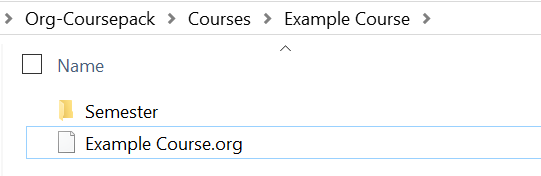
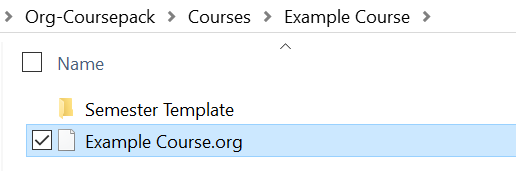
Update

diff --git a/searchindex.js b/searchindex.js
@@ -1,1 +1,1 @@
-Search.setIndex({docnames:["Lectures/01 Introduction","Lectures/02 Org Mode Basics","Lectures/03 Topic and Course Org Files","Lectures/04 Creating Content for Slides and Handouts","Lectures/05 Exporting Slides and Handouts","Lectures/06 Semester Org Files 1 4 Introduction","Lectures/07 Semester Org Files 2 4 Sections and Syllabus","Lectures/08 Semester Org Files 3 4 Lectures","Lectures/09 Semester Org Files 4 4 Exams and Assignments","index"],envversion:53,filenames:["Lectures\\01 Introduction.rst","Lectures\\02 Org Mode Basics.rst","Lectures\\03 Topic and Course Org Files.rst","Lectures\\04 Creating Content for Slides and Handouts.rst","Lectures\\05 Exporting Slides and Handouts.rst","Lectures\\06 Semester Org Files 1 4 Introduction.rst","Lectures\\07 Semester Org Files 2 4 Sections and Syllabus.rst","Lectures\\08 Semester Org Files 3 4 Lectures.rst","Lectures\\09 Semester Org Files 4 4 Exams and Assignments.rst","index.rst"],objects:{},objnames:{},objtypes:{},terms:{"00pm":6,"01_syllabu":6,"10pt":6,"1in":6,"20pt":3,"30a":6,"30pm":5,"43e7":7,"6cm":0,"79d5e887":7,"8e8a":7,"\u315a\u3157":[],"break":3,"case":[0,1,2,3],"class":9,"default":[3,4,6,7,8],"export":[1,3,6,7,8,9],"final":6,"function":[0,1,3,4,6,7,8],"import":[2,5,6,8],"long":[4,7],"new":8,"return":4,"try":0,"while":[0,1,3,4,6],Adding:[],For:[0,1,3,4,5,6,7,8],Its:[2,8],One:[0,1,3,6],Such:[1,3],That:[0,5,6],The:[0,1,2,3,4,5,6,8,9],Then:[0,1,7],There:6,These:[0,3,4,6,7],Using:[4,9],With:[3,4,7],_assign:7,_exam:7,_final:7,abil:7,abl:0,about:[0,2,4,5,6,8],abov:[0,2,7],absolut:5,academ:0,access:0,accommod:5,accomod:4,accompani:3,accordingli:7,achiev:[1,3],across:[0,1,2,5,6,7,8],act:[5,6],action:[0,4,7],activ:[3,8],actual:[0,2],adadem:0,adapt:4,add:[0,3,4,8],added:[0,4],adding:[0,4],addit:[0,4,6,7,8],adjust:0,advantag:1,after:[0,3,4],again:[],agenda:[0,7],ajax:5,alist:4,all:[0,1,3,5,6,7],allow:[0,1,3,4,6,8],allowfullscreen:3,alreadi:3,also:[0,3,5,6,8],alt:[0,8],ani:[0,1,3,4,7,8],annot:0,annouc:7,announc:[0,5,6,7],anoth:[0,2,6,8,9],appear:[0,3],append:4,appli:[0,3],approach:0,appropri:0,area:[1,3],argument:4,around:[0,6],arrow:0,articl:[0,4,6],ask:0,asset:[0,5],assign:[0,1,2,5,6,9],assignment_1:0,associ:1,assum:7,attr_beam:3,attr_format:3,attr_html:[0,3],attr_latex:[0,3],attr_rev:[0,3],attribut:0,author:[2,5],autom:0,automat:[0,3,4,6,7,8],auxiliari:0,avail:[0,3],avoid:[3,6],b83fa83ee56:7,babel:8,back:4,backend:[0,3,4],base:[0,3,4],basi:7,basic:[0,4,7,9],beamer:[0,3,4,7],becaus:[],becom:[],been:0,befor:[0,3,7],begin:[0,3,6],begin_cent:6,begin_export:3,begin_mdfram:3,begin_not:3,begin_src:7,beginn:0,being:[0,3,4,7],belon:8,belong:[0,7],below:[0,2,3,4,5,6,7,8],benefit:[0,2],between:[3,4],biggest:0,bind:[],blank:6,bldg:6,block:[3,6],bodi:[6,7],boilerpl:[],bold:3,booklet:4,both:[0,4,9],bottom:6,broken:[],browser:3,build:1,built:[0,4],button:[],calendar:0,call:0,can:[0,1,2,3,4,5,6,7,8],cannot:3,carrot:8,categor:5,categori:[2,5],cdn:5,cdnj:5,central:[],certain:4,chang:[0,1,4,5,6,8],charact:7,checkmark:8,choos:[0,3,4],classlist:5,classroom:[0,5,6],clearpag:4,click:[0,4,7],clickabl:[0,7,9],cloudflar:5,code:[0,4,8,9],collaps:[0,5],color:6,column:[6,7],columnview:[0,6],com:[3,5],combin:3,come:4,command:[0,4,7],common:[0,3,5,6,8],compil:0,complet:[0,3],compon:[0,5],concat:4,cond:3,conduct:8,confirm:[0,8],consider:2,consist:[0,1,2],construct:[],contain:[0,2,4,5,6,7,8],containt:2,content:[5,6,9],control:3,contruct:5,conveni:[4,8],convert:[3,4],copi:1,correct:[4,8],correctli:[],correspond:[0,2,3,6,7,8],coupl:5,courier:6,cours:[1,3,4,5,7,8,9],course_info:0,course_link:6,course_num:[0,5,6,8],coursepack:[1,2,3,4,5,7,8],coursepacket:2,cover:[0,2,5],creat:[1,2,4,5,6,7,8,9],creation:0,ctrl:0,current:[0,1,4,7],curser:0,cursor:[0,1,4,6],custom:[0,3,4,6,7,8],custom_id:[1,2,6,7,8],cut:4,cutoff:6,dai:6,data:[1,2],date:[0,1,6,8],date_class_01:7,date_class_02:7,date_class_xx:7,date_exam_1:8,date_final_exam_01:6,deadlin:[],deck:0,dedic:5,defin:[0,1,4,6,7],definecolor:6,definit:[1,5],defun:[3,4],denot:1,depend:[0,4],depth:4,deriv:[3,4],describ:[0,3,4,6,7],descript:[0,2,5,6],design:[0,7,8],desir:0,detail:[0,8],determin:1,develop:0,dfrac:1,differ:[0,1,2,6,8],digest:0,direct:3,directli:[0,3],directori:[4,7,9],discuss:7,dispatch:4,displai:3,div:3,divid:0,document:[0,1,4,5],documentclass:4,doe:[0,4],done:[],down:[0,8],draw:7,drawer:[0,6],due:[0,1,7],due_:7,due_assignment_1:[1,7],due_assignment_2:7,duplic:8,dure:6,dynam:6,each:[0,1,2,4,5,6,7,8],earlier:[0,7],easi:0,easier:0,easili:[1,3,7],edit:7,effect:0,effici:0,eggplant:8,either:[0,3,4],element:[4,6,8],elisp:[0,8],elmnt:4,emac:[0,3,4,7,8],email:[2,5,6],emb:3,embed:0,empti:8,enabl:[0,3,4],end:[0,1,2,3,4,5,6,7,8],end_cent:6,end_export:3,end_mdfram:3,end_not:3,engag:0,enjoi:0,ensur:[1,4],enter:[0,7],entri:4,escap:4,especi:1,essenti:7,estim:2,etc:[1,5,6],eun:[0,1,2,3,4,5,6,7,8],eval:[3,4],evalu:8,even:0,event:[0,7],everi:4,exam:[0,1,2,4,5,6,7,9],exam_:7,exampl:[1,2,3,4,5,6,7,8],exclude_tag:5,execut:7,exercis:2,exist:7,expand:[0,2],experi:0,explain:0,explan:[],exploit:1,export_:4,export_author:8,export_d:8,export_file_nam:[0,6,7],export_file_name_manu:7,export_latex_head:[4,6,7],export_titl:[4,6,7,8],export_to:[4,6,7],extend:[],extens:[0,4],extra:3,extract:6,fact:2,fall:[2,5,6,7,8],familiar:[0,3],featur:[0,1,4,9],few:0,file:[3,4,9],fill:0,filler:0,filter:[3,4],find:0,finish:[],first:[0,3,4,7,8],fit:[0,6],fix:[],flexibl:[0,1,4],focu:[0,3],focus:4,folder:[0,2],follow:[0,1,3,4,5,7,8],fontenc:6,forc:0,fore:1,form:[1,2,4,6,7],format:[0,3,4,6,7,8],former:4,found:[3,4],frag:[0,3],fragment:0,frame:3,framebreak:3,framemethod:6,frametitl:3,freeli:0,frequent:[0,1,3],from:[0,2,5,6,7,9],front:4,fset:4,full:4,furthermor:8,futur:[0,1],gener:[0,2,3,4,5,6,7,8],geometri:6,get:[0,3,4,6,7],given:[0,2,5,6],global:5,gnu:0,grab:[],grade:[0,2,5,6],grammar:[3,6],granular:3,group:0,guid:9,guidelin:[0,1,2],hack:3,handout:[5,9],handoutonli:[0,4,7],happen:3,has:[0,2,4,5,6,7,8],have:[0,1,2,3,4,6,7,8],head:[2,6,9],header:[3,4,6,7,8],headlin:[0,3,4],heavili:6,height:3,help:0,helvet:6,henc:[0,2,3,4,7,8],here:[2,3,4,8],hidden:[0,4],hide:[0,3,8],hidestar:[2,5],highest:2,highlight:[4,5,7],hit:0,hold:0,holidai:[0,7],hook:4,hour:[0,6],how:[1,3,4,5],howev:[0,4],href:[],html:[0,4,7,9],http:[3,5],iffals:[0,4],ifram:3,ignor:[0,3,6,7],ignoreheadlin:3,imag:[0,3,4],img:3,importantli:4,improv:0,inact:8,includ:[2,3,4,6,7,8,9],inclus:0,inconsist:0,indent:5,index:9,individu:9,info:[3,4],inform:[1,2,3,4,5,7,8],inherit:[6,7,8],init:[3,4],initi:4,inlin:[3,8],insert:[0,7],insid:0,inspect:7,instal:4,instanc:2,instead:[3,5,6,7],institut:[0,5,6],instruct:[0,3,4,5,8],instructor:[1,2,3,4,5,6,7,8],instrutor:7,interact:4,interfac:4,interpret:2,introduc:[0,3,4],introduct:9,invalid:7,irrelev:3,item:[0,3,4,5,6,8],its:[0,1,3,4,6,7],itself:[],jae:[0,1,2,3,4,5,6,7,8],joon:[0,1,2,3,4,5,6,7,8],jose:0,just:[],kbd:4,keep:[],kei:[0,8],keybind:9,keyboard:4,keyword:5,know:0,knowledg:0,koma:[4,6],lambda:4,lang:4,languag:[0,3,4],larg:6,last:[4,7],later:4,latex:[0,6,7,8,9],latter:[4,7],learn:[0,2,6,7],lectur:[1,2,3,4,5,8,9],left:6,let:[0,3,4],letter:4,letterpap:6,level:[0,1,2,9],leverag:0,lib:5,like:[0,1,3],limit:0,line:[0,1,2,4],linear:5,link:[0,2,7,8,9],lisp:[0,3,4,7],list:[0,4,6,7,8],load:[3,4],local:[5,9],localsetup:0,locat:[0,1,2,5,6],logo:6,look:[0,3],macro:[0,3,4,7,8,9],macro_nam:1,macros_section_info:[0,6],made:[0,7],mai:[0,1,3,4,5,6,7,8],mail:6,main:[],mainli:5,maintain:4,major:0,make:[0,1,2,3],manag:0,mani:[0,8],manual:[0,1,3,4,5,7,8],map:4,mark:[0,8],markdown:[0,5],market:[1,2],markeup:3,markup:[0,3,4],master:[0,5],match:[],materi:[0,1,2,5,6,7],math:0,mathjax:0,mathpazo:6,matter:4,mdframe:[3,6],mean:[0,1,6],meet:[6,7],member:4,menu:0,meta:2,metadata:[2,5],method:0,microtyp:6,mid:8,might:[],minim:[0,7,8],mint:[4,7],minut:8,mix:[],mode:[0,3,5,6,7,8,9],modifi:[],modul:9,modular:[1,8],more:[0,1,3,5,7,8],most:[0,2,6,7],move:0,movement:[],much:[7,8],multi:3,multicol:[3,4],multipl:[0,1,2,4,5,6],name:[0,1,2,4,5,6,7],namkoong:[0,1,2,3,4,5,6,7,8],narrow:4,navig:0,necessari:[3,5],need:[0,1,3,7],newpag:[4,6,8],next:4,nil:[0,5,6,8],noexport:[5,6,7],non:[0,7],none:7,nonstopmod:4,note:[0,2,4,5,6,7,8],notic:[],now:[2,6],num:[4,6],number:[0,1,4,5,6,7,8],object:[0,2,6,7],obtain:[3,8],obvious:[],occupi:0,occur:0,occurr:0,offer:[0,4,5],offic:[0,6],office_hour:[5,6],often:0,okra:8,onc:6,one:[0,1,3,4,5,7,8],onehalfspac:6,ones:5,onli:[0,1,2,3,6,7,8],open:[0,4,7,8],oppos:[0,4],option:[0,1,2,3,4,6,7,8,9],order:[0,1,5,7,8],org:3,org_teach:[7,8],organ:[0,5],orgmod:3,origin:[4,8],other:[0,4,5,6,7],otherwis:8,our:[0,4],output:[0,3,4,7],output_view:[6,7],outputdir:4,outsid:0,over:[3,5],overal:7,overlai:[3,7],overridden:7,overview:[2,5,7,9],own:0,packag:[4,7],page:[6,9],pair:1,paragraph:4,parent:4,pars:4,part:[0,3,4],partial:2,particular:[1,7],pass:[0,6,8],past:[0,1],path:[5,7],pdf:[0,4,6,7],pdflatex:4,pepper:8,per:0,percentag:6,perform:7,perman:[0,2],pertain:8,phone:6,place:[0,1,4,6,7],placehold:6,plan:2,plist:4,png:3,point:[3,4,7,8],polici:[0,2,6],popular:0,portabl:0,portion:0,posit:4,possibl:[7,8],post:5,potenti:[0,2],power:4,pre:[0,4,7],preambl:[3,4,6,7],preced:1,prefix:4,prepend:0,prerequisit:6,present:[0,1,3,5,7],press:[0,1,8],prevent:7,preview:0,previou:[0,7],print:3,prior:7,process:[0,3,4],professor:6,progn:4,prop:4,propag:[0,7],proper:4,properli:[0,3,8],properti:[0,2,3,4],property_nam:[1,6],provid:[0,1,3,4,7],pull:[0,1,5,6,8],put:[0,3,4],python:4,qualit:0,queri:0,question:[0,2,8],quickli:7,quickstart:9,quickstart_lectur:[],quot:3,raw:[0,4,9],reader:3,readi:[],readili:3,readm:0,recap:[0,7],receiv:6,recent:0,recommend:0,reduc:0,redun:7,redunc:0,redund:[0,6,8],refer:[0,1,2,4],reflect:[0,7],regexp:3,regress:[1,2],rel:[0,5],relat:[0,1,2,3,5,6],relev:2,reli:6,remain:[0,2],remind:[5,6],remov:4,render:[0,4],repeat:[0,1,4],replac:[0,1,3],represent:4,requir:[3,4,8],res:1,research:[0,1,2],reset:0,resid:[],respect:[2,3,4],restructuredtext:[0,3],result:7,reus:[],reusabl:7,reveal:[0,5,7,9],reveal_histori:5,reveal_html:[0,4],reveal_plugin:5,reveal_root:5,reveal_them:5,reveal_tran:5,review:[0,1,2,7],revisit:1,rgb:6,right:[0,6],riski:0,root:0,rst:[3,4],run:[0,7,8],safe:[0,3],sai:1,same:[0,1,2,3,4,5,6,7,8],scale:[0,6],schedul:[5,7],scheme:[0,2],school:[5,6],school_color:6,schoolcolor:6,scrartcl:4,screenshot:0,script:[0,4,7],search:[0,9],second:[0,3],section:[0,1,2,3,4,5,9],section_d:6,section_date_final_exam:6,section_loc:6,see:[0,1,2,3,4,5,6,7,8],select:[0,9],semest:[1,2,3,9],semestor:0,separ:[3,8],sequenti:3,seri:0,set:[6,7],setf:4,setq:4,setspac:6,setup:[0,4],setup_macro:[0,5],setupfil:5,sever:[0,5],share:[0,1,6,7,8],shell:4,shift:0,shortcut:0,shoud:4,should:[0,2,3,5,7],show:[0,2,3,4,5,7,8],shown:[0,1,2,3,4,6,7,8],similar:0,similarli:[3,4],simpl:[0,5],simpli:[0,3,4,6],sinc:[0,3,6,8],site:6,size:0,skip:8,skipcount:[0,7],slide:[2,7,9],slideonli:[0,4,7],small:3,smaller:3,snippet:[3,4],some:[3,6],sometim:[],space:4,span:[0,3,4],special:3,specif:[0,1,2,3,5,6,7,8],specifi:[1,4,5,6,7,8],split:0,spring:0,squar:[1,2],src:3,ss_:1,stabil:[],stamp:8,star:1,start:[0,2,3,5,7],startup:[2,5],statement:[1,4,7,8],statist:[0,1,2],step:0,storag:0,store:[0,5],straightforward:0,strateg:0,string:[0,3,4],structur:[2,4,7,8,9],student:[2,6,8],style:3,sub:[0,2],subdirectori:0,subfold:0,subhead:[1,4,7],subparagraph:4,subsect:4,subset:8,subsubsect:4,subtop:2,subtre:[0,1,2,3,5,6,9],suffici:[],summari:[],sun:6,supplementari:[0,4],support:[3,4],suppos:1,surround:[0,3],syllabi:4,syllabu:[1,2,5,7,9],symbol:[4,8],syntax:[0,4,7],system:0,sza2yodtgk4:3,tab:0,tabl:[0,4,6,7],tag:[0,5,6,7,9],take:[1,4],taken:0,task:[0,3,6,9],taught:0,tblfm:6,teach:[0,2,5,6,7],tedious:[],templat:[1,5],tend:[],term:[1,8],tex:0,text:[0,1,3,4,6],thanksgiv:7,thei:[0,1,4,5,6,8],them:[0,1,3,7,8],thi:[0,1,2,3,4,5,6,7,8],thing:[],think:1,third:[0,3,6],those:[3,5],three:[0,1,5,7],through:[0,7],throughout:1,thu:[0,1,3,5,7],thur:6,time:[0,4,5,6,8],timestamp:[5,8],tip:4,titl:[0,1,2,3,4,5,6],toc:[4,6],todo:[5,7],togeth:3,tool:0,top:[0,2,9],topic:[0,6,7,8,9],tot:1,track:[],tree:[0,2,3,9],tue:[0,2,4,5,6,7,8],tutori:3,twice:0,two:[0,3,7,8],type:[0,8],typic:[0,6,8],under:[0,2,7,8],understand:3,uniqu:0,unit:0,univers:0,unless:[0,8],unnecessari:[3,7],updat:[1,6],upon:1,url:[],usag:[1,4],use:[0,1,3,4,5,6,7,8],used:[0,1,3,4,5,6,7,8],useful:[1,4,7],usepackag:[4,6],user:[0,1,3,4,5,7],uses:[0,8],using:[0,1,2,3,4,6,8],util:0,valu:[0,1,4,6,7,8],vari:0,variabl:[5,9],varieti:4,variou:5,veget:8,verb:4,veri:[1,7],version:8,via:[0,1,3,6,8],video:0,view:[0,3,7],view_output:4,viewer:[],visit:[1,5],visual:0,vspace:6,wai:0,want:[0,1,3,4],warn:0,web:[],well:[0,3,5],were:1,what:[0,3],when:[0,1,2,4,6,7],where:[0,1,2,3,4,5],whether:4,which:[0,1,3,4,5,6,7,8],who:[0,2],whole:4,wide:6,widen:4,width:[0,3],window:3,wish:6,within:1,without:[1,3,8],won:4,word:0,worg:3,work:[0,4,8],worri:[],would:[0,1,2],wrapper:6,write:[],written:[0,3,4,7],wuold:8,www:3,xhtml:3,year:0,yet:3,you:[0,1,3,4,7],your:[2,3,4,5],zoom:5},titles:["Class 1: Introduction","Class 2: Org Mode Basics","Class 3: Topic and Course Org Files","Class 4: Creating Content for Slides and Handouts","Class 5: Exporting Slides and Handouts","Class 6: Semester Org Files (1/4): Introduction","Class 7: Semester Org Files (2/4): Sections and Syllabus","Class 8: Semester Org Files (3/4): Lectures","Class 9: Semester Org Files (4/4): Exams and Assignments","Welcome to Org-Coursepack\u2019s documentation!"],titleterms:{"break":4,"class":[0,1,2,3,4,5,6,7,8],"export":[0,4,5],"new":0,"short":8,Adding:0,The:7,Using:3,advantag:0,anoth:1,answer:8,assign:[7,8],attribut:3,basic:1,befor:4,bind:4,block:7,both:3,box:3,buffer:4,button:4,chang:3,choic:8,clickabl:4,code:[3,7],column:3,columnview:7,common:7,conclus:0,construct:0,content:[0,1,2,3,4,7,8],copi:0,cours:[0,2,6],coursepack:[0,9],creat:[0,3],date:7,directori:0,document:9,drawer:5,dummi:3,dynam:7,edit:0,embed:3,exam:8,exampl:0,featur:3,file:[0,1,2,5,6,7,8],font:3,fragment:3,from:1,guid:0,handout:[0,3,4,7],head:[1,3,4,7],hide:4,how:0,html:3,includ:[0,1],indic:9,individu:7,inform:[0,6],input:0,insert:[3,4],instal:0,instructor:0,intro:6,introduct:[0,3,5,7],item:7,kei:4,keybind:4,latex:[3,4],lectur:[0,7],level:[4,5,6,7,8],link:4,list:3,local:[0,8],localsetup:5,macro:[1,5,6],make:[],metadata:0,mode:[1,4],modular:0,multipl:[3,8],note:3,onli:4,option:5,org:[0,1,2,4,5,6,7,8,9],organ:[2,3],overview:0,page:[4,8],paragraph:3,path:0,permiss:0,prepar:0,properti:[1,6,7,8],quickstart:0,raw:3,renam:0,requir:0,reusabl:[],reveal:[3,4],schedul:[0,6],scope:4,section:[6,8],select:4,semest:[0,5,6,7,8],semester_info:5,set:[0,4],setup_export:5,size:3,slide:[0,3,4],sourc:7,speaker:3,specif:4,specifi:[0,3],speific:6,split:3,statement:0,structur:0,student:0,subtre:[4,7,8],summari:7,syllabi:0,syllabu:[0,6],tabl:9,tag:[1,3,4],task:[5,7],templat:0,titl:8,top:[5,6,7,8],topic:2,tree:[5,6,7,8],updat:[0,7],variabl:[0,8],video:3,welcom:9,your:0,youtub:3}})
+Search.setIndex({docnames:["Lectures/01 Introduction","Lectures/02 Org Mode Basics","Lectures/03 Topic and Course Org Files","Lectures/04 Creating Content for Slides and Handouts","Lectures/05 Exporting Slides and Handouts","Lectures/06 Semester Org Files 1 4 Introduction","Lectures/07 Semester Org Files 2 4 Sections and Syllabus","Lectures/08 Semester Org Files 3 4 Lectures","Lectures/09 Semester Org Files 4 4 Exams and Assignments","index"],envversion:53,filenames:["Lectures\\01 Introduction.rst","Lectures\\02 Org Mode Basics.rst","Lectures\\03 Topic and Course Org Files.rst","Lectures\\04 Creating Content for Slides and Handouts.rst","Lectures\\05 Exporting Slides and Handouts.rst","Lectures\\06 Semester Org Files 1 4 Introduction.rst","Lectures\\07 Semester Org Files 2 4 Sections and Syllabus.rst","Lectures\\08 Semester Org Files 3 4 Lectures.rst","Lectures\\09 Semester Org Files 4 4 Exams and Assignments.rst","index.rst"],objects:{},objnames:{},objtypes:{},terms:{"00pm":6,"01_syllabu":6,"10pt":6,"1in":6,"20pt":3,"30a":6,"30pm":5,"43e7":7,"6cm":0,"79d5e887":7,"8e8a":7,"\u315a\u3157":[],"break":3,"case":[0,1,2,3],"class":9,"default":[3,4,6,7,8],"export":[1,3,6,7,8,9],"final":6,"function":[0,1,3,4,6,7,8],"import":[2,5,6,8],"long":[4,7],"new":8,"return":4,"try":0,"while":[0,1,3,4,6],Adding:[],For:[0,1,3,4,5,6,7,8],Its:[2,8],One:[0,1,3,6],Such:[1,3],That:[0,5,6],The:[0,1,2,3,4,5,6,8,9],Then:[0,1,7],There:6,These:[0,3,4,6,7],Using:[4,9],With:[3,4,7],_assign:7,_exam:7,_final:7,abil:7,abl:0,about:[0,2,4,5,6,8],abov:[0,2,7],absolut:5,academ:0,access:0,accommod:5,accomod:4,accompani:3,accordingli:7,achiev:[1,3],across:[0,1,2,5,6,7,8],act:[5,6],action:[0,4,7],activ:[3,8],actual:[0,2],adadem:0,adapt:4,add:[0,3,4,8],added:[0,4],adding:[0,4],addit:[0,4,6,7,8],adjust:0,advantag:1,after:[0,3,4],again:[],agenda:[0,7],ajax:5,alist:4,all:[0,1,3,5,6,7],allow:[0,1,3,4,6,8],allowfullscreen:3,alreadi:3,also:[0,3,5,6,8],alt:[0,8],ani:[0,1,3,4,7,8],annot:0,annouc:7,announc:[0,5,6,7],anoth:[0,2,6,8,9],appear:[0,3],append:4,appli:[0,3],approach:0,appropri:0,area:[1,3],argument:4,around:[0,6],arrow:0,articl:[0,4,6],ask:0,asset:[0,5],assign:[0,1,2,5,6,9],assignment_1:0,associ:1,assum:7,attr_beam:3,attr_format:3,attr_html:[0,3],attr_latex:[0,3],attr_rev:[0,3],attribut:0,author:[2,5],autom:0,automat:[0,3,4,6,7,8],auxiliari:0,avail:[0,3],avoid:[3,6],b83fa83ee56:7,babel:8,back:4,backend:[0,3,4],base:[0,3,4],basi:7,basic:[0,4,7,9],beamer:[0,3,4,7],becaus:[],becom:[],been:0,befor:[0,3,7],begin:[0,3,6],begin_cent:6,begin_export:3,begin_mdfram:3,begin_not:3,begin_src:7,beginn:0,being:[0,3,4,7],belon:8,belong:[0,7],below:[0,2,3,4,5,6,7,8],benefit:[0,2],between:[3,4],biggest:0,bind:[],blank:6,bldg:6,block:[3,6],bodi:[6,7],boilerpl:[],bold:3,booklet:4,both:[0,4,9],bottom:6,broken:[],browser:3,build:1,built:[0,4],button:[],calendar:0,call:0,can:[0,1,2,3,4,5,6,7,8],cannot:3,carrot:8,categor:5,categori:[2,5],cdn:5,cdnj:5,central:[],certain:4,chang:[0,1,4,5,6,8],charact:7,checkmark:8,choos:[0,3,4],classlist:5,classroom:[0,5,6],clearpag:4,click:[0,4,7],clickabl:[0,7,9],cloudflar:5,code:[0,4,8,9],collaps:[0,5],color:6,column:[6,7],columnview:[0,6],com:[3,5],combin:3,come:4,command:[0,4,7],common:[0,3,5,6,8],compil:0,complet:[0,3],compon:[0,5],concat:4,cond:3,conduct:8,confirm:[0,8],consider:2,consist:[0,1,2],construct:[],contain:[0,2,4,5,6,7,8],containt:2,content:[5,6,9],control:3,contruct:5,conveni:[4,8],convert:[3,4],copi:1,correct:[4,8],correctli:[],correspond:[0,2,3,6,7,8],coupl:5,courier:6,cours:[1,3,4,5,7,8,9],course_info:0,course_link:6,course_num:[0,5,6,8],coursepack:[1,2,3,4,5,7,8],coursepacket:2,cover:[0,2,5],creat:[1,2,4,5,6,7,8,9],creation:0,ctrl:0,current:[0,1,4,7],curser:0,cursor:[0,1,4,6],custom:[0,3,4,6,7,8],custom_id:[1,2,6,7,8],cut:4,cutoff:6,dai:6,data:[1,2],date:[0,1,6,8],date_class_01:7,date_class_02:7,date_class_xx:7,date_exam_1:8,date_final_exam_01:6,deadlin:[],deck:0,dedic:5,defin:[0,1,4,6,7],definecolor:6,definit:[1,5],defun:[3,4],denot:1,depend:[0,4],depth:4,deriv:[3,4],describ:[0,3,4,6,7],descript:[0,2,5,6],design:[0,7,8],desir:0,detail:[0,8],determin:1,develop:0,dfrac:1,differ:[0,1,2,6,8],digest:0,direct:3,directli:[0,3],directori:[4,7,9],discuss:7,dispatch:4,displai:3,div:3,divid:0,document:[0,1,4,5],documentclass:4,doe:[0,4],done:[],down:[0,8],draw:7,drawer:[0,6],due:[0,1,7],due_:7,due_assignment_1:[1,7],due_assignment_2:7,duplic:8,dure:6,dynam:6,each:[0,1,2,4,5,6,7,8],earlier:[0,7],easi:0,easier:0,easili:[1,3,7],edit:7,effect:0,effici:0,eggplant:8,either:[0,3,4],element:[4,6,8],elisp:[0,8],elmnt:4,emac:[0,3,4,7,8],email:[2,5,6],emb:3,embed:0,empti:8,enabl:[0,3,4],end:[0,1,2,3,4,5,6,7,8],end_cent:6,end_export:3,end_mdfram:3,end_not:3,engag:0,enjoi:0,ensur:[1,4],enter:[0,7],entri:4,escap:4,especi:1,essenti:7,estim:2,etc:[1,5,6],eun:[0,1,2,3,4,5,6,7,8],eval:[3,4],evalu:8,even:0,event:[0,7],everi:4,exam:[0,1,2,4,5,6,7,9],exam_:7,exampl:[1,2,3,4,5,6,7,8],exclude_tag:5,execut:7,exercis:2,exist:7,expand:[0,2],experi:0,explain:0,explan:[],exploit:1,export_:4,export_author:8,export_d:8,export_file_nam:[0,6,7],export_file_name_manu:7,export_latex_head:[4,6,7],export_titl:[4,6,7,8],export_to:[4,6,7],extend:[],extens:[0,4],extra:3,extract:6,fact:2,fall:[2,5,6,7,8],familiar:[0,3],featur:[0,1,4,9],few:0,file:[3,4,9],fill:0,filler:0,filter:[3,4],find:0,finish:[],first:[0,3,4,7,8],fit:[0,6],fix:[],flexibl:[0,1,4],focu:[0,3],focus:4,folder:[0,2],follow:[0,1,3,4,5,7,8],fontenc:6,forc:0,fore:1,form:[1,2,4,6,7],format:[0,3,4,6,7,8],former:4,found:[3,4],frag:[0,3],fragment:0,frame:3,framebreak:3,framemethod:6,frametitl:3,freeli:0,frequent:[0,1,3],from:[0,2,5,6,7,9],front:4,fset:4,full:4,furthermor:8,futur:[0,1],gener:[0,2,3,4,5,6,7,8],geometri:6,get:[0,3,4,6,7],given:[0,2,5,6],global:5,gnu:0,grab:[],grade:[0,2,5,6],grammar:[3,6],granular:3,group:0,guid:9,guidelin:[0,1,2],hack:3,handout:[5,9],handoutonli:[0,4,7],happen:3,has:[0,2,4,5,6,7,8],have:[0,1,2,3,4,6,7,8],head:[2,6,9],header:[3,4,6,7,8],headlin:[0,3,4],heavili:6,height:3,help:0,helvet:6,henc:[0,2,3,4,7,8],here:[2,3,4,8],hidden:[0,4],hide:[0,3,8],hidestar:[2,5],highest:2,highlight:[4,5,7],hit:0,hold:0,holidai:[0,7],hook:4,hour:[0,6],how:[1,3,4,5],howev:[0,4],href:[],html:[0,4,7,9],http:[3,5],iffals:[0,4],ifram:3,ignor:[0,3,6,7],ignoreheadlin:3,imag:[0,3,4],img:3,importantli:4,improv:0,inact:8,includ:[2,3,4,6,7,8,9],inclus:0,inconsist:0,indent:5,index:9,individu:9,info:[3,4],inform:[1,2,3,4,5,7,8],inherit:[6,7,8],init:[3,4],initi:4,inlin:[3,8],insert:[0,7],insid:0,inspect:7,instal:4,instanc:2,instead:[3,5,6,7],institut:[0,5,6],instruct:[0,3,4,5,8],instructor:[1,2,3,4,5,6,7,8],instrutor:7,interact:4,interfac:4,interpret:2,introduc:[0,3,4],introduct:9,invalid:7,irrelev:3,item:[0,3,4,5,6,8],its:[0,1,3,4,6,7],itself:[],jae:[0,1,2,3,4,5,6,7,8],joon:[0,1,2,3,4,5,6,7,8],jose:0,just:[],kbd:4,keep:[],kei:[0,8],keybind:9,keyboard:4,keyword:5,know:0,knowledg:0,koma:[4,6],lambda:4,lang:4,languag:[0,3,4],larg:6,last:[4,7],later:4,latex:[0,6,7,8,9],latter:[4,7],learn:[0,2,6,7],lectur:[1,2,3,4,5,8,9],left:6,let:[0,3,4],letter:4,letterpap:6,level:[0,1,2,9],leverag:0,lib:5,like:[0,1,3],limit:0,line:[0,1,2,4],linear:5,link:[0,2,7,8,9],lisp:[0,3,4,7],list:[0,4,6,7,8],load:[3,4],local:[5,9],localsetup:0,locat:[0,1,2,5,6],logo:6,look:[0,3],macro:[0,3,4,7,8,9],macro_nam:1,macros_section_info:[0,6],made:[0,7],mai:[0,1,3,4,5,6,7,8],mail:6,main:[],mainli:5,maintain:4,major:0,make:[0,1,2,3],manag:0,mani:[0,8],manual:[0,1,3,4,5,7,8],map:4,mark:[0,8],markdown:[0,5],market:[1,2],markeup:3,markup:[0,3,4],master:[0,5],match:[],materi:[0,1,2,5,6,7],math:0,mathjax:0,mathpazo:6,matter:4,mdframe:[3,6],mean:[0,1,6],meet:[6,7],member:4,menu:0,meta:2,metadata:[2,5],method:0,microtyp:6,mid:8,might:[],minim:[0,7,8],mint:[4,7],minut:8,mix:[],mode:[0,3,5,6,7,8,9],modifi:[],modul:9,modular:[1,8],more:[0,1,3,5,7,8],most:[0,2,6,7],move:0,movement:[],much:[7,8],multi:3,multicol:[3,4],multipl:[0,1,2,4,5,6],name:[0,1,2,4,5,6,7],namkoong:[0,1,2,3,4,5,6,7,8],narrow:4,navig:0,necessari:[3,5],need:[0,1,3,7],newpag:[4,6,8],next:4,nil:[0,5,6,8],noexport:[5,6,7],non:[0,7],none:7,nonstopmod:4,note:[0,2,4,5,6,7,8],notic:[],now:[2,6],num:[4,6],number:[0,1,4,5,6,7,8],object:[0,2,6,7],obtain:[3,8],obvious:[],occupi:0,occur:0,occurr:0,offer:[0,4,5],offic:[0,6],office_hour:[5,6],often:0,okra:8,onc:6,one:[0,1,3,4,5,7,8],onehalfspac:6,ones:5,onli:[0,1,2,3,6,7,8],open:[0,4,7,8],oppos:[0,4],option:[0,1,2,3,4,6,7,8,9],order:[0,1,5,7,8],org:3,org_teach:[7,8],organ:[0,5],orgmod:3,origin:[4,8],other:[0,4,5,6,7],otherwis:8,our:[0,4],output:[0,3,4,7],output_view:[6,7],outputdir:4,outsid:0,over:[3,5],overal:7,overlai:[3,7],overridden:7,overview:[2,5,7,9],own:0,packag:[4,7],page:[6,9],pair:1,paragraph:4,parent:4,pars:4,part:[0,3,4],partial:2,particular:[1,7],pass:[0,6,8],past:[0,1],path:[5,7],pdf:[0,4,6,7],pdflatex:4,pepper:8,per:0,percentag:6,perform:7,perman:[0,2],pertain:8,phone:6,place:[0,1,4,6,7],placehold:6,plan:2,plist:4,png:3,point:[3,4,7,8],polici:[0,2,6],popular:0,portabl:0,portion:0,posit:4,possibl:[7,8],post:5,potenti:[0,2],power:4,pre:[0,4,7],preambl:[3,4,6,7],preced:1,prefix:4,prepend:0,prerequisit:6,present:[0,1,3,5,7],press:[0,1,8],prevent:7,preview:0,previou:[0,7],print:3,prior:7,process:[0,3,4],professor:6,progn:4,prop:4,propag:[0,7],proper:4,properli:[0,3,8],properti:[0,2,3,4],property_nam:[1,6],provid:[0,1,3,4,7],pull:[0,1,5,6,8],put:[0,3,4],python:4,qualit:0,queri:0,question:[0,2,8],quickli:7,quickstart:9,quickstart_lectur:[],quot:3,raw:[0,4,9],reader:3,readi:[],readili:3,readm:0,recap:[0,7],receiv:6,recent:0,recommend:0,reduc:0,redun:7,redunc:0,redund:[0,6,8],refer:[0,1,2,4],reflect:[0,7],regexp:3,regress:[1,2],rel:[0,5],relat:[0,1,2,3,5,6],relev:2,reli:6,remain:[0,2],remind:[5,6],remov:4,render:[0,4],repeat:[0,1,4],replac:[0,1,3],represent:4,requir:[3,4,8],res:1,research:[0,1,2],reset:0,resid:[],respect:[2,3,4],restructuredtext:[0,3],result:7,reus:[],reusabl:7,reveal:[0,5,7,9],reveal_histori:5,reveal_html:[0,4],reveal_plugin:5,reveal_root:5,reveal_them:5,reveal_tran:5,review:[0,1,2,7],revisit:1,rgb:6,right:[0,6],riski:0,root:0,rst:[3,4],run:[0,7,8],safe:[0,3],sai:1,same:[0,1,2,3,4,5,6,7,8],scale:[0,6],schedul:[5,7],scheme:[0,2],school:[5,6],school_color:6,schoolcolor:6,scrartcl:4,screenshot:0,script:[0,4,7],search:[0,9],second:[0,3],section:[0,1,2,3,4,5,9],section_d:6,section_date_final_exam:6,section_loc:6,see:[0,1,2,3,4,5,6,7,8],select:[0,9],semest:[1,2,3,9],semestor:[],separ:[3,8],sequenti:3,seri:0,set:[6,7],setf:4,setq:4,setspac:6,setup:[0,4],setup_macro:[0,5],setupfil:5,sever:[0,5],share:[0,1,6,7,8],shell:4,shift:0,shortcut:0,shoud:4,should:[0,2,3,5,7],show:[0,2,3,4,5,7,8],shown:[0,1,2,3,4,6,7,8],similar:0,similarli:[3,4],simpl:[0,5],simpli:[0,3,4,6],sinc:[0,3,6,8],site:6,size:0,skip:8,skipcount:[0,7],slide:[2,7,9],slideonli:[0,4,7],small:3,smaller:3,snippet:[3,4],some:[3,6],sometim:[],space:4,span:[0,3,4],special:3,specif:[0,1,2,3,5,6,7,8],specifi:[1,4,5,6,7,8],split:0,spring:0,squar:[1,2],src:3,ss_:1,stabil:[],stamp:8,star:1,start:[0,2,3,5,7],startup:[2,5],statement:[1,4,7,8],statist:[0,1,2],step:0,storag:0,store:[0,5],straightforward:0,strateg:0,string:[0,3,4],structur:[2,4,7,8,9],student:[2,6,8],style:3,sub:[0,2],subdirectori:0,subfold:0,subhead:[1,4,7],subparagraph:4,subsect:4,subset:8,subsubsect:4,subtop:2,subtre:[0,1,2,3,5,6,9],suffici:[],summari:[],sun:6,supplementari:[0,4],support:[3,4],suppos:1,surround:[0,3],syllabi:4,syllabu:[1,2,5,7,9],symbol:[4,8],syntax:[0,4,7],system:0,sza2yodtgk4:3,tab:0,tabl:[0,4,6,7],tag:[0,5,6,7,9],take:[1,4],taken:0,task:[0,3,6,9],taught:0,tblfm:6,teach:[0,2,5,6,7],tedious:[],templat:[1,5],tend:[],term:[1,8],tex:0,text:[0,1,3,4,6],thanksgiv:7,thei:[0,1,4,5,6,8],them:[0,1,3,7,8],thi:[0,1,2,3,4,5,6,7,8],thing:[],think:1,third:[0,3,6],those:[3,5],three:[0,1,5,7],through:[0,7],throughout:1,thu:[0,1,3,5,7],thur:6,time:[0,4,5,6,8],timestamp:[5,8],tip:4,titl:[0,1,2,3,4,5,6],toc:[4,6],todo:[5,7],togeth:3,tool:0,top:[0,2,9],topic:[0,6,7,8,9],tot:1,track:[],tree:[0,2,3,9],tue:[0,2,4,5,6,7,8],tutori:3,twice:0,two:[0,3,7,8],type:[0,8],typic:[0,6,8],under:[0,2,7,8],understand:3,uniqu:0,unit:0,univers:0,unless:[0,8],unnecessari:[3,7],updat:[1,6],upon:1,url:[],usag:[1,4],use:[0,1,3,4,5,6,7,8],used:[0,1,3,4,5,6,7,8],useful:[1,4,7],usepackag:[4,6],user:[0,1,3,4,5,7],uses:[0,8],using:[0,1,2,3,4,6,8],util:0,valu:[0,1,4,6,7,8],vari:0,variabl:[5,9],varieti:4,variou:5,veget:8,verb:4,veri:[1,7],version:8,via:[0,1,3,6,8],video:0,view:[0,3,7],view_output:4,viewer:[],visit:[1,5],visual:0,vspace:6,wai:0,want:[0,1,3,4],warn:0,web:[],well:[0,3,5],were:1,what:[0,3],when:[0,1,2,4,6,7],where:[0,1,2,3,4,5],whether:4,which:[0,1,3,4,5,6,7,8],who:[0,2],whole:4,wide:6,widen:4,width:[0,3],window:3,wish:6,within:1,without:[1,3,8],won:4,word:0,worg:3,work:[0,4,8],worri:[],would:[0,1,2],wrapper:6,write:[],written:[0,3,4,7],wuold:8,www:3,xhtml:3,year:0,yet:3,you:[0,1,3,4,7],your:[2,3,4,5],zoom:5},titles:["Class 1: Introduction","Class 2: Org Mode Basics","Class 3: Topic and Course Org Files","Class 4: Creating Content for Slides and Handouts","Class 5: Exporting Slides and Handouts","Class 6: Semester Org Files (1/4): Introduction","Class 7: Semester Org Files (2/4): Sections and Syllabus","Class 8: Semester Org Files (3/4): Lectures","Class 9: Semester Org Files (4/4): Exams and Assignments","Welcome to Org-Coursepack\u2019s documentation!"],titleterms:{"break":4,"class":[0,1,2,3,4,5,6,7,8],"export":[0,4,5],"new":0,"short":8,Adding:0,The:7,Using:3,advantag:0,anoth:1,answer:8,assign:[7,8],attribut:3,basic:1,befor:4,bind:4,block:7,both:3,box:3,buffer:4,button:4,chang:3,choic:8,clickabl:4,code:[3,7],column:3,columnview:7,common:7,conclus:0,construct:0,content:[0,1,2,3,4,7,8],copi:0,cours:[0,2,6],coursepack:[0,9],creat:[0,3],date:7,directori:0,document:9,drawer:5,dummi:3,dynam:7,edit:0,embed:3,exam:8,exampl:0,featur:3,file:[0,1,2,5,6,7,8],font:3,fragment:3,from:1,guid:0,handout:[0,3,4,7],head:[1,3,4,7],hide:4,how:0,html:3,includ:[0,1],indic:9,individu:7,inform:[0,6],input:0,insert:[3,4],instal:0,instructor:0,intro:6,introduct:[0,3,5,7],item:7,kei:4,keybind:4,latex:[3,4],lectur:[0,7],level:[4,5,6,7,8],link:4,list:3,local:[0,8],localsetup:5,macro:[1,5,6],make:[],metadata:0,mode:[1,4],modular:0,multipl:[3,8],note:3,onli:4,option:5,org:[0,1,2,4,5,6,7,8,9],organ:[2,3],overview:0,page:[4,8],paragraph:3,path:0,permiss:0,prepar:0,properti:[1,6,7,8],quickstart:0,raw:3,renam:0,requir:0,reusabl:[],reveal:[3,4],schedul:[0,6],scope:4,section:[6,8],select:4,semest:[0,5,6,7,8],semester_info:5,set:[0,4],setup_export:5,size:3,slide:[0,3,4],sourc:7,speaker:3,specif:4,specifi:[0,3],speific:6,split:3,statement:0,structur:0,student:0,subtre:[4,7,8],summari:7,syllabi:0,syllabu:[0,6],tabl:9,tag:[1,3,4],task:[5,7],templat:0,titl:8,top:[5,6,7,8],topic:2,tree:[5,6,7,8],updat:[0,7],variabl:[0,8],video:3,welcom:9,your:0,youtub:3}})

diff --git a/Lectures/01 Introduction.html b/Lectures/01 Introduction.html
@@ -125,11 +125,11 @@ assignments and exams, can be created in similar ways.</p>
 </div>
 <div class="section" id="copy-and-rename-the-template-directory-and-org-file">
 <h3>2.2 Copy and rename the <code class="docutils literal"><span class="pre">Template</span></code> directory and Org file<a class="headerlink" href="#copy-and-rename-the-template-directory-and-org-file" title="Permalink to this headline">¶</a></h3>
-<p>The quickstart guide uses <code class="docutils literal"><span class="pre">/</span></code> to refer the root path of <code class="docutils literal"><span class="pre">Org-Coursepack</span></code>. Make a
-copy of the <code class="docutils literal"><span class="pre">Template</span></code> directory (inside the <code class="docutils literal"><span class="pre">/Courses</span></code> directory). Change the
-names of the <code class="docutils literal"><span class="pre">Template</span></code> directory and the <code class="docutils literal"><span class="pre">template.org</span></code> file inside the
-directory, so they reflect the name of the course you are creating the
-materials for. See example below (we changed the names to <code class="docutils literal"><span class="pre">Example</span> <span class="pre">Course</span></code>):</p>
+<p>The quickstart guide uses <code class="docutils literal"><span class="pre">/</span></code> to refer the root path of <code class="docutils literal"><span class="pre">Org-Coursepack</span></code>. Make
+a copy of the <code class="docutils literal"><span class="pre">Template</span></code> directory (inside the <code class="docutils literal"><span class="pre">/Courses</span></code> directory). Change
+the names of the <code class="docutils literal"><span class="pre">Template</span></code> directory and the <code class="docutils literal"><span class="pre">Course</span> <span class="pre">Template.org</span></code> file
+inside the directory, so they reflect the name of the course you are creating
+the materials for. See example below (we changed the names to <code class="docutils literal"><span class="pre">Example</span> <span class="pre">Course</span></code>):</p>
 <img alt="../Assets/Images/Org-Teaching/Quickstart_Course-renamed.png" src="../Assets/Images/Org-Teaching/Quickstart_Course-renamed.png" />
 <p>It is common for the same course to be taught across multiple
 semesters. Hence, the course will include a <code class="docutils literal"><span class="pre">Semester</span></code> folder for each
@@ -140,8 +140,8 @@ content, such as class dates, classroom information, or office hours. The
 semester Org file is used to export course content into appropriate output
 formats (e.g., slides or handouts).</p>
 <p>The example below shows that the semester is 2020 Spring. You can rename the
-<code class="docutils literal"><span class="pre">Semester</span></code> folder and the <code class="docutils literal"><span class="pre">Semestor.org</span></code> inside that folder to reflect the
-semester in which you are teaching that course.</p>
+<code class="docutils literal"><span class="pre">Semester</span> <span class="pre">Template</span></code> folder and the <code class="docutils literal"><span class="pre">Semester</span> <span class="pre">Template.org</span></code> inside that folder
+to reflect the semester in which you are teaching that course.</p>
 <img alt="../Assets/Images/Org-Teaching/Quickstart_Semester-renamed.png" src="../Assets/Images/Org-Teaching/Quickstart_Semester-renamed.png" />
 </div>
 <div class="section" id="set-local-variables-permissions-in-the-semester-org-file">
